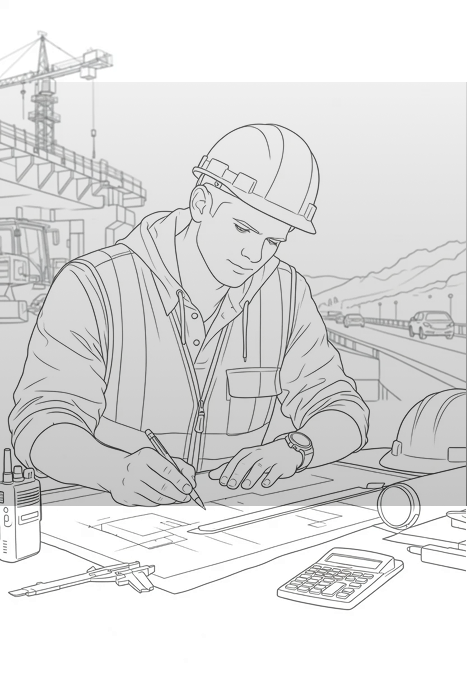
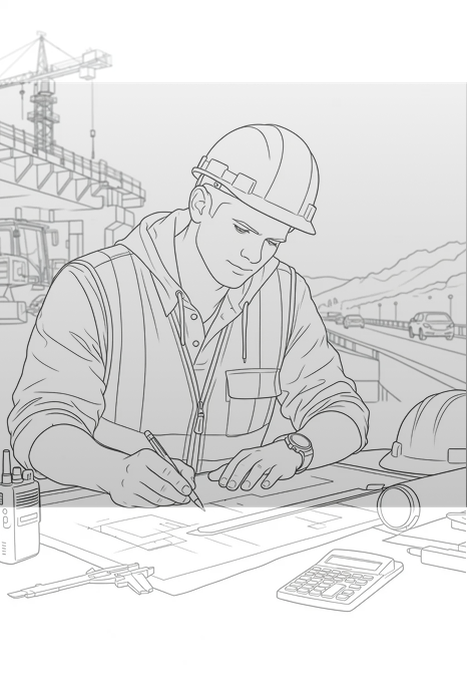
Release 0.2.18: frame contractor hero image like student cabinet

diff --git a/src/utils/cabinetHero.ts b/src/utils/cabinetHero.ts
@@ -42,12 +42,20 @@ export function buildCabinetHeroCardStyle(
 ): CSSProperties {
   const scrimFrom = isDark ? "15,23,42,0.58" : "46,69,108,0.45";
   const scrimTo = isDark ? "15,23,42,0.72" : "34,56,88,0.52";
+  const {
+    backgroundImage: _bg,
+    backgroundSize: _bs,
+    backgroundPosition: _bp,
+    filter: _f,
+    ...frame
+  } = heroCard;
   return {
-    ...heroCard,
+    ...frame,
     backgroundImage:
       `linear-gradient(180deg, rgba(${scrimFrom}) 0%, rgba(${scrimTo}) 100%), url('${imageUrl}')`,
     backgroundSize: "cover",
     backgroundPosition: "center center",
+    backgroundRepeat: "no-repeat",
     filter: "none",
   };
 }

diff --git a/src/components/CabinetChromeLayout.tsx b/src/components/CabinetChromeLayout.tsx
@@ -37,7 +37,6 @@ import {
   APP_LOGO_SRC,
   CABINET_CHROME_PRELOAD_IMAGES,
   CABINET_HERO_BG,
-  CABINET_HERO_CONTRACTOR,
   ICON_AVATAR,
   ICON_LOGOUT,
   ICON_PROFILE_CHEVRON,
@@ -389,10 +388,10 @@ function CabinetChromeLayout({ cabinetPath, children }: Props) {
           ") 0%, rgba(" +
           (isDark ? "15,23,42,0.65" : "34,56,88,0.55") +
           ") 100%), url('" +
-          (cabinetPath === "/page4" ? CABINET_HERO_CONTRACTOR : CABINET_HERO_BG) +
+          CABINET_HERO_BG +
           "')",
-        backgroundSize: cabinetPath === "/page4" ? "cover" : "115%",
-        backgroundPosition: cabinetPath === "/page4" ? "center center" : "center 40%",
+        backgroundSize: "115%",
+        backgroundPosition: "center 40%",
         filter: "brightness(1.08)",
         boxShadow: styles.cardShadow,
         color: "#ffffff",

diff --git a/src/assets/appIcons.ts b/src/assets/appIcons.ts
@@ -25,14 +25,12 @@ export const ROLE_ICON_SCHOOL = publicUrl("tagjs/b3pnceya.png");
 export const ROLE_ICON_STUDENT = publicUrl("tagjs/66h5rmum.png");
 export const ROLE_ICON_CONTRACTOR = publicUrl("tagjs/0tenwd9b.png");
 
-/** Фон героя в кабинете подрядчика (Group 37227 — инженер с чертежами). */
-export const CABINET_HERO_CONTRACTOR = publicUrl("cabinet-hero-contractor.png");
 export const ROLE_ICON_INSTITUTION = publicUrl("tagjs/boty0uwi.png");
 
 export const CABINET_CHROME_PRELOAD_IMAGES = [
   APP_LOGO_SRC,
   CABINET_HERO_BG,
-  CABINET_HERO_CONTRACTOR,
+  publicUrl("cabinet-hero-contractor.png"),
   ICON_SEARCH,
   ICON_THEME,
   ICON_AVATAR,

diff --git a/src/pages/Page4.tsx b/src/pages/Page4.tsx
@@ -1,7 +1,9 @@
 import { memo, useCallback, useEffect, useMemo, useState } from "react";
 import { useLocation } from "react-router-dom";
 import CabinetChromeLayout, { type CabinetChromeContext } from "../components/CabinetChromeLayout";
-import { CABINET_HERO_CONTRACTOR, ROLE_ICON_CONTRACTOR } from "../assets/appIcons";
+import { ROLE_ICON_CONTRACTOR } from "../assets/appIcons";
+
+const CABINET_HERO_CONTRACTOR = new URL("../assets/cabinet-hero-contractor.png", import.meta.url).href;
 import HeroRoleIconButton from "../components/HeroRoleIconButton";
 import { buildCabinetHeroCardStyle, heroTopRowStyle } from "../utils/cabinetHero";
 import { ContractorCabinetAside } from "../components/ContractorCabinetAside";

diff --git a/src/pages/AdminDashboard.tsx b/src/pages/AdminDashboard.tsx
@@ -55,7 +55,7 @@ import { fetchAppUpdateManifest, publishAppUpdate } from "../api/appUpdateApi";
 import { TRASSA_SETUP_DOWNLOAD_URL } from "../config/desktopRelease";
 import styles from "./AdminPanel.module.css";
 
-const APP_VERSION = "0.2.17";
+const APP_VERSION = "0.2.18";
 
 type Props = {
   onLogout: () => void;